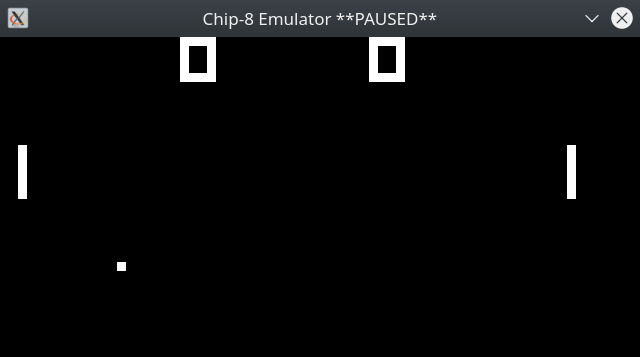
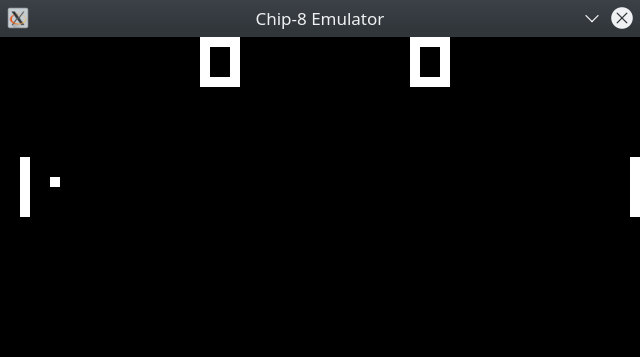
Updated images, fixed graphics resolution

diff --git a/Graphics/SDLGraphics.h b/Graphics/SDLGraphics.h
@@ -13,8 +13,8 @@ class SDLGraphics
 	//Chip 8 is 64x32
 	const int SCREEN_WIDTH = 640;
 	const int SCREEN_HEIGHT = 320;
-	const int screen_scale_x = 9;
-	const int screen_scale_y = 9;
+	const int screen_scale_x = 10;
+	const int screen_scale_y = 10;
 
 	//SDL Window
 	SDL_Window* sdl_window;
